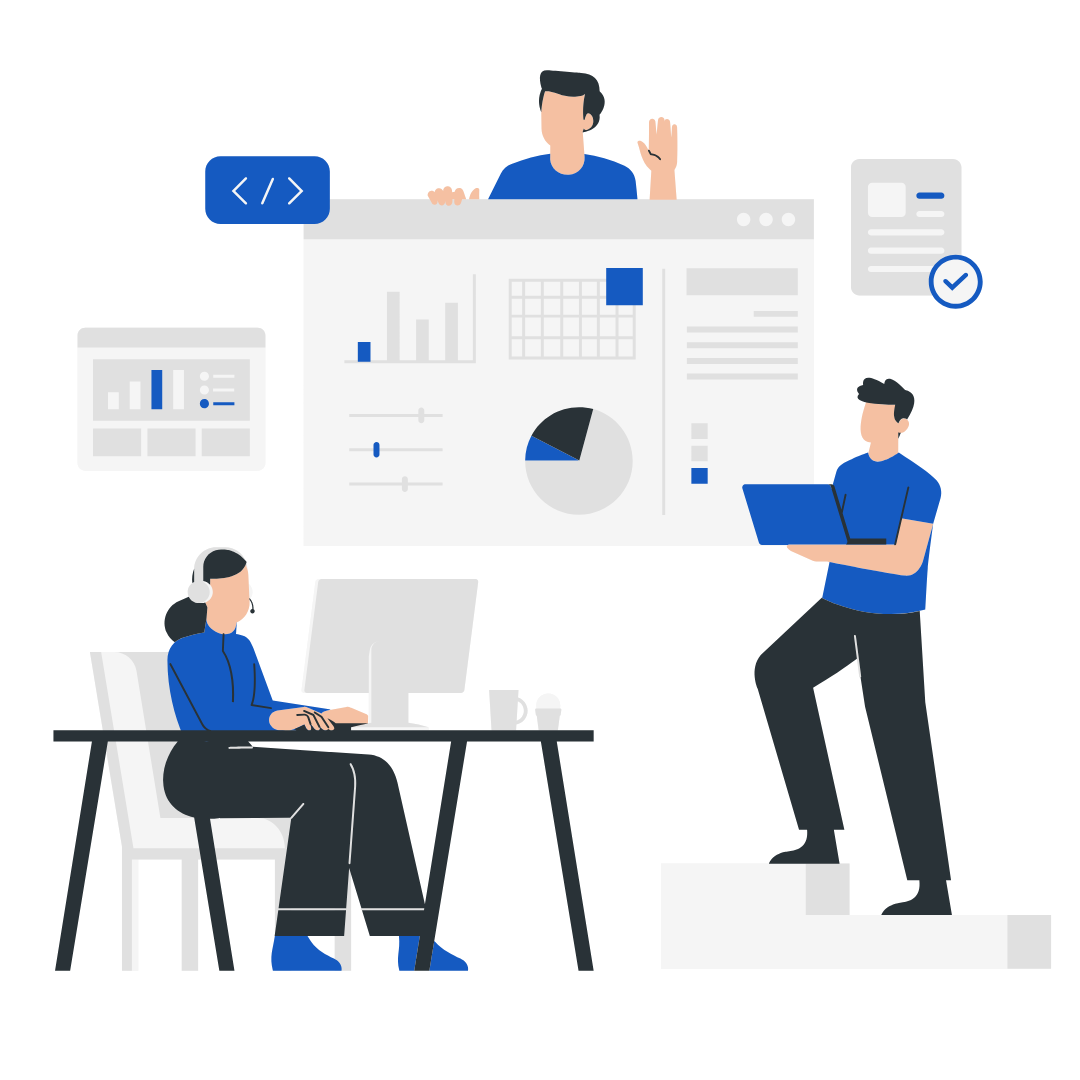
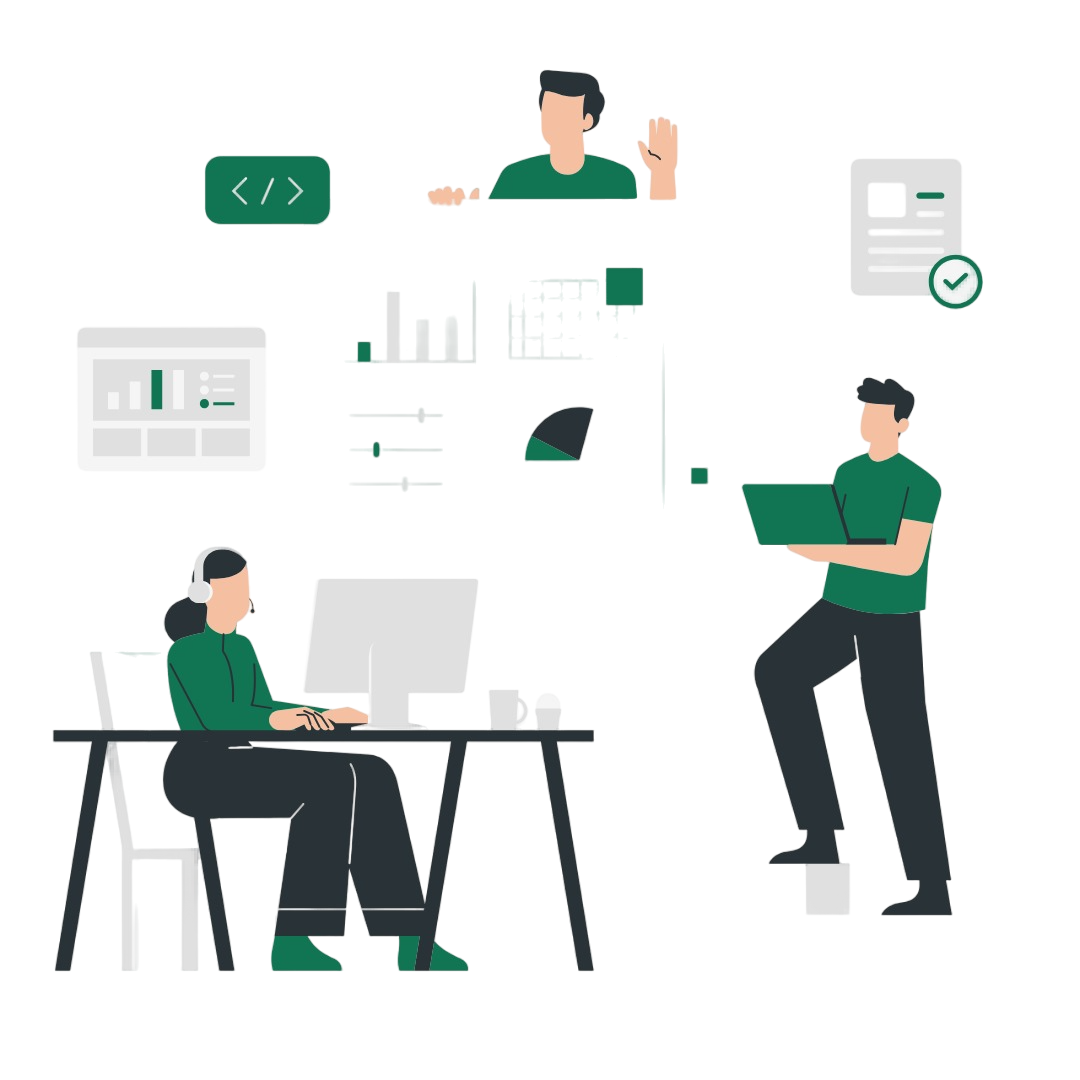
Added my project to De-Project Hub

diff --git a/src/components/login.jsx b/src/components/login.jsx
@@ -49,35 +49,35 @@ const LoginForm = () => {
         onSubmit={handleSubmit}
         className="w-full max-w-md space-y-6 rounded-lg form-login p-8 shadow-lg"
       >
-        <h1 className="text-4xl p-2 mb-4 text-center align-middle items-center text-[#15B392] font-semibold">
+        <h1 className="text-4xl p-2 mb-4 font-bold text-center align-middle items-center text-[#3C552D] font-semibold">
           Login
         </h1>
 
             {/* User Role Selection */}
             <div className="space-y-2">
-          <label className="text-sm font-medium text-gray-400">User Role</label>
+          <label className="text-sm font-medium text-[#A1A1D]">User Role</label>
           <select
             value={userRole}
             onChange={(e) => setuserRole(e.target.value)}
-            className="w-full text-black rounded-md border border-gray-300 py-2 px-3"
+            className="w-full text-gray-400 rounded-md border border-gray-300 py-2 px-3"
           >
             <option value="" disabled>Select Role</option>
-            <option value="Admin">Admin</option>
+            <option value="Admin" >Admin</option>
             <option value="User">User</option>
-            <option value="User">Invertory Manager</option>
+            <option value="Inventory">Inventory Manager</option>
           </select>
         </div>
 
         {/* Email Input */}
         <div className="space-y-2">
-          <label className="text-sm font-medium text-gray-400">Email</label>
+          <label className="text-sm font-medium text-[#1A1A1D]">Email</label>
           <div className="relative">
             <input
               type="email"
               name="email"
               value={Email}
               onChange={(e) => setEmail(e.target.value)}
-              className="w-full text-black rounded-md border border-gray-300 py-2 pl-10 pr-4 focus:border-blue-500 focus:outline-none focus:ring-1 focus:ring-blue-500"
+              className="w-full text-[#1A1A1B] rounded-md border border-gray-300 p-2 focus:border-[#15B392] focus:outline-none focus:ring-1 focus:ring-blue-500"
               placeholder="Enter your Email"
             />
           </div>
@@ -85,14 +85,14 @@ const LoginForm = () => {
 
         {/* Password Input */}
         <div className="space-y-2">
-          <label className="text-sm font-medium text-gray-400">Password</label>
+          <label className="text-sm font-medium text-[#1A1A1D]">Password</label>
           <div className="relative">
             <input
               type={showPassword ? "text" : "password"}
               name="password"
               value={Password}
               onChange={(e) => setPassword(e.target.value)}
-              className="w-full text-black rounded-md border border-gray-300 py-2 pl-10 pr-10 focus:border-blue-500 focus:outline-none focus:ring-1 focus:ring-blue-500"
+              className="w-full text-black rounded-md border border-gray-300 p-2 focus:border-[#15B392] focus:outline-none focus:ring-1 focus:ring-blue-500"
               placeholder="Enter your Password"
             />
             <button
@@ -115,11 +115,11 @@ const LoginForm = () => {
               name="rememberMe"
               checked={rememberMe}
               onChange={(e) => setrememberMe(e.target.checked)}
-              className="h-4 w-4 rounded border-gray-300 text-blue-600 focus:ring-blue-500"
+              className="h-4 w-4 rounded border-gray-300 text-[#1A1AD] focus:ring-blue-500"
             />
-            <label className="ml-2 text-sm text-gray-400">Remember me</label>
+            <label className="ml-2 text-sm text-[#1A1A1D]">Remember me</label>
           </div>
-          <button type="button" className="text-sm font-medium text-blue-600 hover:text-blue-500">
+          <button type="button" className="text-sm font-medium text-[#3C552D] hover:text-[#1A1A1D]">
             Forgot password?
           </button>
         </div>
@@ -128,7 +128,7 @@ const LoginForm = () => {
         <button
           disabled={Loader}
           type="submit"
-          className="w-full rounded-md bg-blue-600 py-2 text-white transition-colors hover:bg-blue-700 focus:outline-none focus:ring-2 focus:ring-blue-500 focus:ring-offset-2"
+          className="w-full rounded-md bg-[#3C552D] py-2 text-white transition-colors hover:bg-[#3C552D] focus:outline-none focus:ring-2 focus:ring-blue-500 focus:ring-offset-2"
         >
           {Loader ? <span>Signing in</span> : <span>Sign In</span>}
         </button>
@@ -137,9 +137,9 @@ const LoginForm = () => {
         </div>
 
         {/* Sign Up Link */}
-        <p className="text-center text-sm text-gray-400">
+        <p className="text-center text-sm text-[#1A1A1D]">
           Don't have an account?{" "}
-          <a href="/signup" className="font-medium text-blue-600 hover:text-blue-500">
+          <a href="/signup" className="font-medium text-[#3C552D] hover:text-blue-500">
             Sign Up
           </a>
         </p>

diff --git a/src/components/Landing.jsx b/src/components/Landing.jsx
@@ -23,16 +23,12 @@ const SchoolManagementLandingPage = () => {
                     Say goodbye to manual tracking and inefficiencies. InvenTrak is designed to simplify file movement between departments and automate inventory processes at IIIT Bhubaneswar. Our goal is to improve operational efficiency, enhance transparency, and reduce administrative overhead.
                     </p>
 
-                    <div className="flex justify-center md:justify-start space-x-4 mb-4">
-                        <button className="bg-[#114fee] w-32 text-center text-xl text-white py-2 px-6 rounded "><a href='/login'>Login</a>
+                    <div className="flex justify-center align-middle items-center   md:justify-start space-x-4 mb-4">
+                   <a href='/login'  className='bg-[#117554] w-48  text-center text-xl text-white py-2 px-4 rounded-md '>Login</a>
                            
-                        </button>
+                       
                        
                     </div>
-
-                    <p className="text-gray-600">
-                        Don’t have an account? <a href="/signup" className="text-[#114fee] hover:underline">Sign up</a>
-                    </p>
                 </div>
             </div>
         </div>

diff --git a/src/index.css b/src/index.css
@@ -2,6 +2,11 @@
 @tailwind components;
 @tailwind utilities;
 
+.form {
+  box-shadow: 5px 5px 5px rgba(128, 128, 128, 0.548) ;
+}
+
+
 .landing-left {
   width : 40%
 }
